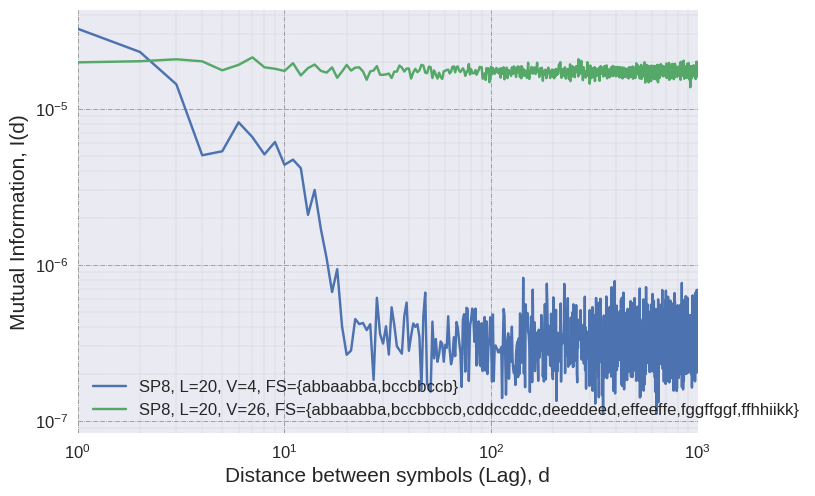
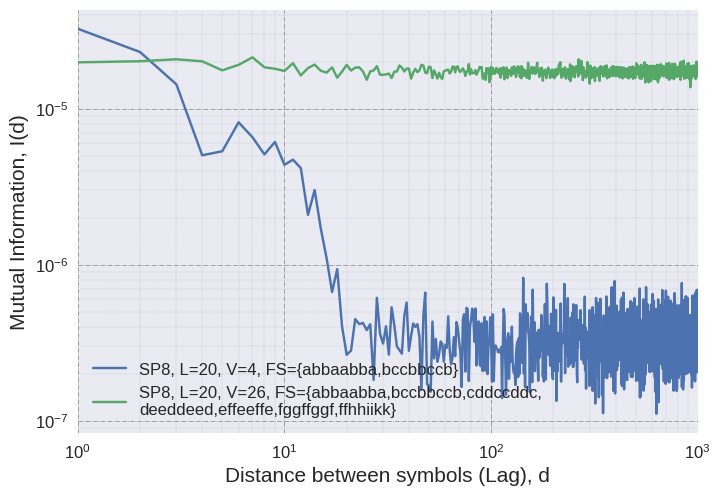
Up image edit

diff --git a/paper_related/spk/plot_sp.py b/paper_related/spk/plot_sp.py
@@ -56,8 +56,8 @@ with plt.style.context(('seaborn')):
     # plt.loglog(np.arange(1,len(all_mi[7])+1), all_mi[7], label="SP2, L=20, V=4, FS={ab,bc,cd,dc}")
     # plt.loglog(np.arange(1,len(all_mi[8])+1), all_mi[8], label="SP2, L=20, V=26, FS={ab,bc,cd,de,ef,fg}")
 
-    # plt.loglog(np.arange(1,len(all_mi[9])+1), all_mi[9], label="SP8, L=20, V=4, FS={abbaabba,bccbbccb}")
-    # plt.loglog(np.arange(1,len(all_mi[10])+1), all_mi[10], label="SP8, L=20, V=26, FS={abbaabba,bccbbccb,cddccddc,deeddeed,effeeffe,fggffggf,ffhhiikk}")
+    plt.loglog(np.arange(1,len(all_mi[9])+1), all_mi[9], label="SP8, L=20, V=4, FS={abbaabba,bccbbccb}")
+    plt.loglog(np.arange(1,len(all_mi[10])+1), all_mi[10], label="SP8, L=20, V=26, FS={abbaabba,bccbbccb,cddccddc,\ndeeddeed,effeeffe,fggffggf,ffhhiikk}")
 
     # plt.loglog(np.arange(1,len(all_mi[7])+1), all_mi[7], label="SP2, L=20, V=4, FS={ab,bc,cd,dc}")
     # plt.loglog(np.arange(1,len(all_mi[11])+1), all_mi[11], label="SP2, L=20, V=4, FS={ab,bc,cd,dc}, Small")
@@ -71,8 +71,8 @@ with plt.style.context(('seaborn')):
     # plt.loglog(np.arange(1,len(all_mi[4])+1), all_mi[4], label="SP2, L=100, V=4, FS={ab,bc}")
     # plt.loglog(np.arange(1,len(all_mi[14])+1), all_mi[14], label="SP2, L=100, V=4, FS={ab,bc,cd,dc}")
 
-    plt.loglog(np.arange(1,len(all_mi[15])+1), all_mi[15], label="SP2, L=20, V=4, FS={ab,bc}")
-    plt.loglog(np.arange(1,len(all_mi[16])+1), all_mi[16], label="SP2, L=20, V=4, FS={ab,bc,cd,dc}")
+    # plt.loglog(np.arange(1,len(all_mi[15])+1), all_mi[15], label="SP2, L=20, V=4, FS={ab,bc}")
+    # plt.loglog(np.arange(1,len(all_mi[16])+1), all_mi[16], label="SP2, L=20, V=4, FS={ab,bc,cd,dc}")
 
     plt.tick_params(labelsize='large', width=5)
     plt.grid(True)
@@ -86,5 +86,5 @@ with plt.style.context(('seaborn')):
     ax.set_xlabel('Distance between symbols (Lag), d', fontsize=15)
     ax.set_ylabel('Mutual Information, I(d)', fontsize=15)
     lgd = ax.legend(loc='lower left', shadow=True, fancybox=True, numpoints=1, prop={'size': 12})
-    plt.savefig('spk_f2', bbox_extra_artists=(lgd,), bbox_inches='tight')
+    plt.savefig('spk_v1', bbox_extra_artists=(lgd,), bbox_inches='tight')
     plt.show()
